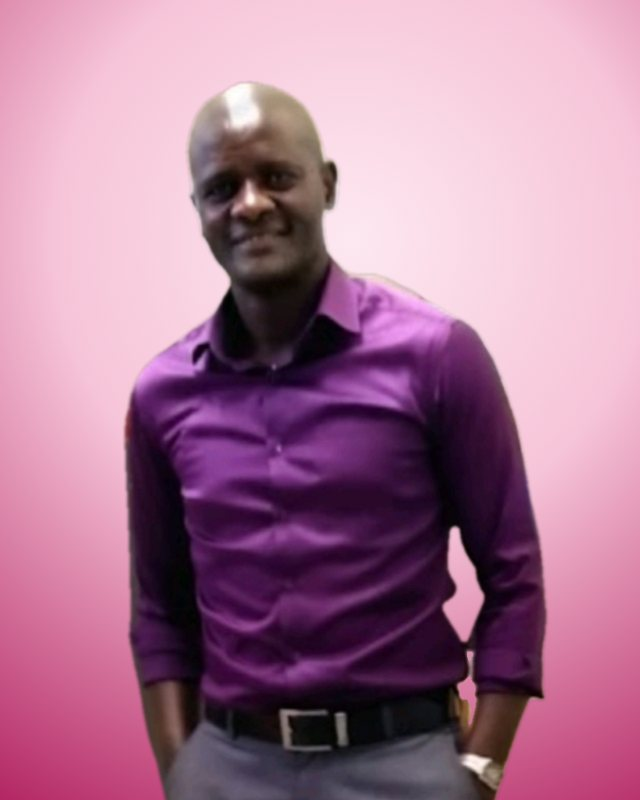
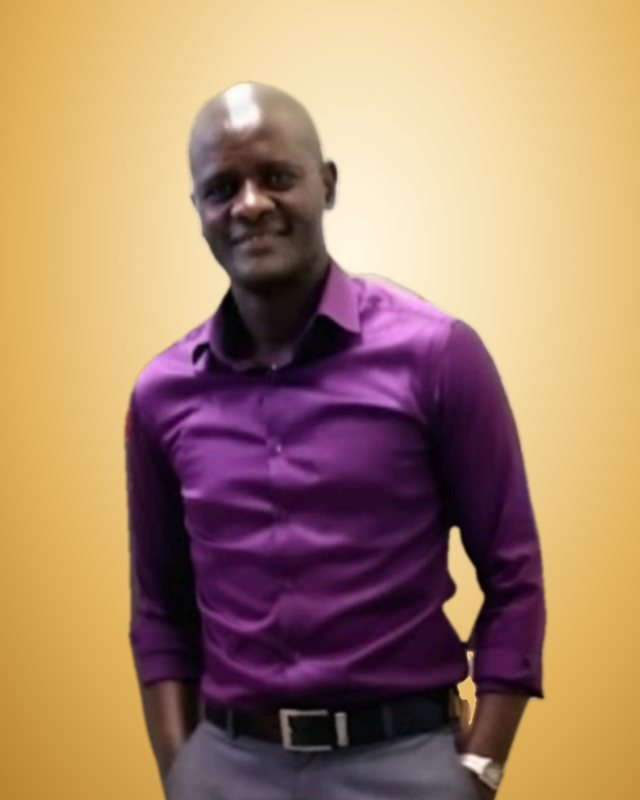
Founder section: gold backdrop, no job title or countries, stronger layout
- Photo backdrop changed to warm gold to suit the purple shirt
- Removed 'pharmacist' and Uganda/Botswana from the founder text
- Welcome laid out as a quote, tick-marked promises and a handwritten signature
  (Great Vibes font, OFL licence, self-hosted)

Claude-Session: https://claude.ai/code/session_01G2PvJjQxshmJ89HD5x38Qe

diff --git a/index.html b/index.html
@@ -83,13 +83,21 @@
 .contact-card{display:flex;flex-wrap:wrap;gap:18px;justify-content:space-between;align-items:center;background:linear-gradient(135deg,#2b1723,#5a1d3c);color:#fff;border-radius:26px;padding:30px}
 .contact-card h2{color:#fff}.contact-card p{color:#f3dbe6;margin:0}
 .contact-card a.mail{color:#fff;font-weight:800;font-size:18px;overflow-wrap:anywhere}
-.founder{display:grid;grid-template-columns:minmax(0,360px) 1fr;gap:40px;align-items:center}
+@font-face{font-family:"PK Signature";src:url(assets/fonts/great-vibes.woff2) format("woff2");font-display:swap}
+.founder{display:grid;grid-template-columns:minmax(0,380px) 1fr;gap:44px;align-items:center}
 .founder-photo{position:relative}
-.founder-photo img{width:100%;height:auto;aspect-ratio:4/5;object-fit:cover;border-radius:28px;box-shadow:0 26px 60px #5c183040;display:block}
-.founder-photo .badge{position:absolute;left:14px;bottom:14px;background:#fff;border-radius:999px;padding:8px 14px;box-shadow:var(--shadow);font-weight:800;font-size:14px}
+.founder-photo img{width:100%;height:auto;aspect-ratio:4/5;object-fit:cover;border-radius:28px;box-shadow:0 26px 60px #3a1a4a40;display:block;border:6px solid #fff}
+.founder-photo .badge{position:absolute;left:18px;bottom:18px;background:#2a1433;color:#f6dfae;border-radius:999px;padding:8px 16px;font-weight:800;font-size:13px;letter-spacing:1.5px;text-transform:uppercase}
+.founder-kicker{display:inline-block;font-weight:800;font-size:13px;letter-spacing:2px;text-transform:uppercase;color:#9a6a1f}
+.founder-letter h2{font-family:Georgia,"Times New Roman",serif;font-size:44px;line-height:1.05;margin:10px 0 18px;color:#2a1433}
+.founder-letter blockquote{margin:0 0 20px;padding:4px 0 4px 20px;border-left:5px solid #e2b35c;font-family:Georgia,"Times New Roman",serif;font-style:italic;font-size:22px;line-height:1.4;color:#2a1433}
 .founder-letter p{font-size:17px;margin:0 0 14px}
-.founder-letter .sign{font-weight:800;font-size:19px;margin-top:20px}
-.founder-letter .sign span{display:block;font-weight:600;font-size:15px;color:var(--muted)}
+.founder-promises{list-style:none;padding:0;margin:0 0 18px;display:grid;gap:10px}
+.founder-promises li{position:relative;padding-left:38px;font-size:16px}
+.founder-promises li:before{content:"✓";position:absolute;left:0;top:-1px;width:26px;height:26px;border-radius:50%;background:#e2b35c;color:#2a1433;font-weight:900;display:grid;place-items:center;font-size:15px}
+.founder-letter .sign{margin-top:22px;padding-top:16px;border-top:1px solid var(--line)}
+.founder-letter .sig{display:block;font-family:"PK Signature","Brush Script MT","Segoe Script",cursive;font-size:56px;font-weight:400;line-height:1;color:#2a1433}
+.founder-letter .sig-role{display:block;font-weight:700;font-size:14px;letter-spacing:1px;color:var(--muted);margin-top:6px}
 .final{text-align:center}
 .final .cta{justify-content:center}
 @media (max-width:900px){.steps{grid-template-columns:1fr 1fr}}
@@ -102,6 +110,7 @@
   .hero-photo .badge{left:10px;bottom:10px}
   .split,.countries,.founder{grid-template-columns:1fr}
   .founder{gap:22px}.founder-photo{max-width:300px}
+  .founder-letter h2{font-size:34px}.founder-letter blockquote{font-size:19px}
 }
 @media (max-width:420px){.steps{grid-template-columns:1fr}.cta .btn{flex:1 1 100%}}
 </style>
@@ -189,16 +198,21 @@
   <div class="wrap founder">
     <div class="founder-photo">
       <img src="assets/founder-pike.jpg" width="640" height="800" loading="lazy" alt="Pike, the founder of P.K CONNECT, smiling in a purple shirt">
-      <span class="badge">✅ Pike – Founder</span>
+      <span class="badge">✔ Official founder</span>
     </div>
     <div class="founder-letter">
-      <span class="eyebrow">A personal welcome</span>
-      <h2>Hello, I'm Pike — the founder of P.K CONNECT.</h2>
-      <p>I'm a pharmacist from Uganda, living and working in Botswana. Too many people give up on online dating because of fake profiles, scams and people who were never serious.</p>
-      <p>So I built P.K CONNECT to be different: a small, respectful community where real adults can meet for friendship, a serious relationship or marriage. Our team checks profiles and every report, and removes fake or abusive accounts. Your email address is never shown, and you can block or report anyone at any time.</p>
-      <p><strong>Joining is free, and we will never ask you for money in a private message.</strong> My official account, <strong>Pike – Founder ✅</strong>, is the only one that speaks for P.K CONNECT. If anything worries you, message me there or email <a href="mailto:pikeinsightsug@gmail.com">pikeinsightsug@gmail.com</a>, and I will reply personally.</p>
-      <p>Wherever you are in the world, I hope you find your person here.</p>
-      <p class="sign">With warm wishes, Pike <span>Founder, P.K CONNECT – Find Your Person</span></p>
+      <span class="founder-kicker">A personal welcome from our founder</span>
+      <h2>Hello, I'm Pike.</h2>
+      <blockquote>I built P.K CONNECT so genuine people can meet safely — without fake profiles, scams or pressure.</blockquote>
+      <p>Too many people give up on online dating because they meet fake profiles and people who were never serious. P.K CONNECT is a respectful community where real adults can meet for friendship, a serious relationship or marriage.</p>
+      <ul class="founder-promises">
+        <li><b>Profiles and reports are checked</b> by our team, and fake or abusive accounts are removed.</li>
+        <li><b>Your email stays private.</b> It is never shown to other members.</li>
+        <li><b>Free to join.</b> We will never ask you for money in a private message.</li>
+        <li><b>Block or report anyone</b>, at any time.</li>
+      </ul>
+      <p>My official account, <strong>Pike – Founder ✅</strong>, is the only one that speaks for P.K CONNECT. If anything worries you, message me there or email <a href="mailto:pikeinsightsug@gmail.com">pikeinsightsug@gmail.com</a>, and I will reply personally.</p>
+      <p class="sign"><span class="sig">Pike</span><span class="sig-role">Founder, P.K CONNECT – Find Your Person</span></p>
     </div>
   </div>
 </section>

diff --git a/about.html b/about.html
@@ -36,7 +36,7 @@
 
   <figure style="display:flex;gap:18px;align-items:center;margin:26px 0;background:#fff;border:1px solid var(--line);border-radius:20px;padding:16px">
     <img src="assets/founder-pike.jpg" width="640" height="800" alt="Pike, the founder of P.K CONNECT" style="width:110px;height:auto;aspect-ratio:4/5;object-fit:cover;border-radius:16px;flex:none">
-    <figcaption><strong>Meet the founder: Pike ✅</strong><br>A pharmacist from Uganda, based in Botswana, who built P.K CONNECT so that adults everywhere can meet someone genuine — safely. His official in-app account is <strong>Pike – Founder ✅</strong>. <a href="index.html#founder">Read his welcome message</a>.</figcaption>
+    <figcaption><strong>Meet the founder: Pike ✅</strong><br>Pike built P.K CONNECT so that genuine people everywhere can meet safely — without fake profiles, scams or pressure. His official in-app account is <strong>Pike – Founder ✅</strong>. <a href="index.html#founder">Read his welcome message</a>.</figcaption>
   </figure>
 
   <p class="promise">Our promise: joining is free, and we will never ask you for money in a private message. Anyone who does is not us. Please report them.</p>
